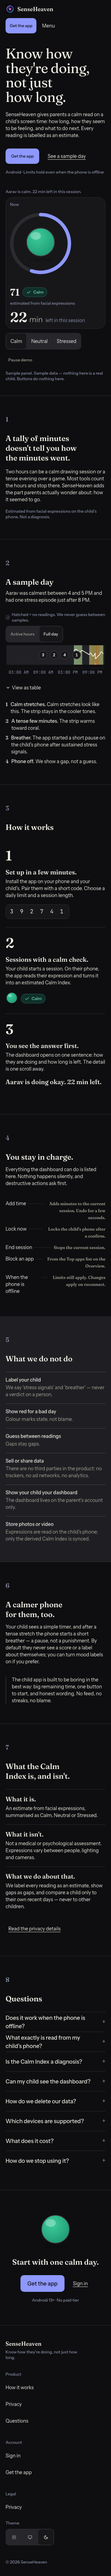
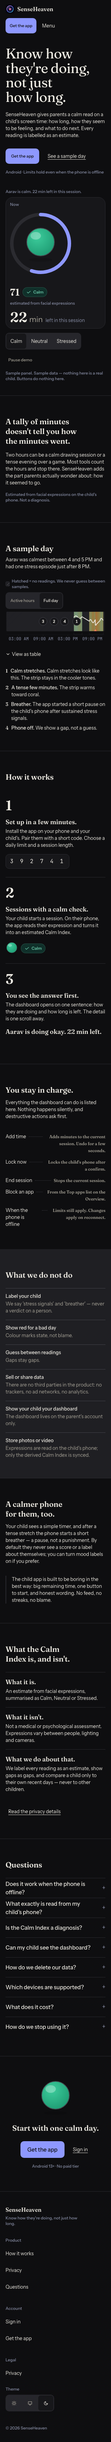
fix(verify): IPv6-safe localhost for vite preview under Node 26 (127.0.0.1 refused); sample-day simplification — margin column + leader skeleton removed, single numbered note list, section numerals dropped

diff --git a/web/src/features/home/HomePage.tsx b/web/src/features/home/HomePage.tsx
@@ -3,7 +3,7 @@
  *  shown is the real Overview components fed by sample data — no screenshots, no device
  *  frames, no invented facts. Every factual claim traces to code or the API (see
  *  verification/home/report.md). */
-import { lazy, Suspense, useEffect, useLayoutEffect, useRef, useState } from "react";
+import { lazy, Suspense, useEffect, useRef, useState } from "react";
 
 // the ribbon is below the fold: split + hydrate on visibility (spec §9.1)
 const DayRibbon = lazy(() => import("@/components/charts/DayRibbon").then((m) => ({ default: m.DayRibbon })));
@@ -45,14 +45,6 @@ function usePrefersReducedMotion(): boolean {
   return reduced;
 }
 
-function SectionLabel({ n }: { n: string }) {
-  return (
-    <p aria-hidden className="font-display text-h3 font-semibold text-text-subtle">
-      {n}
-    </p>
-  );
-}
-
 function SectionHeading({ id, children }: { id?: string; children: React.ReactNode }) {
   return (
     <h2 id={id} className="mt-1 font-display text-h2 font-semibold text-text" style={{ textWrap: "balance" }}>
@@ -62,12 +54,10 @@ function SectionHeading({ id, children }: { id?: string; children: React.ReactNo
 }
 
 function SectionFrame({
-  n,
   id,
   children,
   band = false,
 }: {
-  n: string;
   id?: string;
   children: React.ReactNode;
   band?: boolean;
@@ -75,28 +65,20 @@ function SectionFrame({
   return (
     <section id={id} className={cn("scroll-mt-20 border-t border-border", band && "bg-surface-2")}>
       <div className="mx-auto max-w-[1240px] px-4 py-[clamp(56px,9vw,128px)] md:px-8">
-        <div className="grid gap-6 md:grid-cols-[64px_minmax(0,1fr)]">
-          <SectionLabel n={n} />
-          <div className="min-w-0">{children}</div>
-        </div>
+        <div className="mx-auto max-w-[900px] min-w-0">{children}</div>
       </div>
     </section>
   );
 }
 
-/** The signature section: a sample past day with annotated marginalia (spec §4.4). */
+/** The signature section: a sample past day with numbered annotations on the ribbon. */
 function SampleDay() {
-  const sectionRef = useRef<HTMLElement>(null);
   const stripRef = useRef<HTMLDivElement>(null);
-  const marginRef = useRef<HTMLDivElement>(null);
-  const noteRefs = useRef<(HTMLDivElement | null)[]>([]);
-  const [leaders, setLeaders] = useState<{ d: string; dotX: number; dotY: number }[] | null>(null);
-  const [noteTops, setNoteTops] = useState<number[] | null>(null);
   const [revealed, setRevealed] = useState(false);
   const reduced = usePrefersReducedMotion();
 
   useEffect(() => {
-    const el = sectionRef.current;
+    const el = stripRef.current;
     if (!el || reduced) return;
     if (typeof IntersectionObserver === "undefined") return;
     const io = new IntersectionObserver((entries) => {
@@ -109,58 +91,11 @@ function SampleDay() {
     return () => io.disconnect();
   }, [reduced]);
 
-  // leaders are measured so they land on the right ribbon points at every width
-  useLayoutEffect(() => {
-    const measure = () => {
-      const section = sectionRef.current;
-      const strip = stripRef.current;
-      if (!section || !strip) return;
-      const sb = section.getBoundingClientRect();
-      const rb = strip.getBoundingClientRect();
-      const stripY = ((rb.top + rb.height / 2 - sb.top) / sb.height) * 100;
-      // stack the notes from just below the strip, spaced by their measured heights
-      const heights = noteRefs.current.slice(0, SAMPLE_NOTES.length).map(
-        (el) => (el?.getBoundingClientRect().height ?? 20) + 10,
-      );
-      const stripBottom = rb.bottom - sb.top + 8;
-      const tops: number[] = [];
-      let cursor = stripBottom;
-      for (const h of heights) {
-        tops.push(cursor);
-        cursor += h;
-      }
-      setNoteTops(tops);
-      const tops0 = tops; // leader endpoints track the same stacked positions
-      const lines = SAMPLE_NOTES.map((note, i) => {
-        const noteY = ((tops0[i]! + (heights[i]! - 10) / 2) / sb.height) * 100;
-        const noteX = ((sb.width - 300) / sb.width) * 100; // notes live in the 300px margin column
-        const ribbonX = ((8 + (note.at / (24 * 60)) * 884) / 900) * 100;
-        const elbow = Math.min(99, noteX + 1.5);
-        return {
-          d: `M ${noteX} ${noteY} L ${elbow} ${noteY} L ${elbow} ${stripY} L ${ribbonX} ${stripY}`,
-          dotX: ribbonX,
-          dotY: stripY,
-        };
-      });
-      setLeaders(lines);
-    };
-    measure();
-    if (typeof ResizeObserver === "undefined") return;
-    const ro = new ResizeObserver(measure);
-    if (sectionRef.current) ro.observe(sectionRef.current);
-    window.addEventListener("resize", measure);
-    return () => {
-      ro.disconnect();
-      window.removeEventListener("resize", measure);
-    };
-  }, []);
-
   return (
-    <section ref={sectionRef} id="sample-day" aria-labelledby="sample-day-heading" className="relative scroll-mt-20 border-t border-border">
+    <section id="sample-day" aria-labelledby="sample-day-heading" className="scroll-mt-20 border-t border-border">
       <div className="mx-auto max-w-[1240px] px-4 py-[clamp(56px,9vw,128px)] md:px-8">
-        <div className="grid gap-6 md:grid-cols-[64px_minmax(0,1fr)] lg:grid-cols-[64px_minmax(0,1fr)_300px]">
-          <SectionLabel n="2" />
-          <div className="min-w-0 lg:col-start-2 lg:row-start-1">
+        <div className="mx-auto max-w-[900px]">
+          <div className="min-w-0">
             <SectionHeading id="sample-day-heading">A sample day</SectionHeading>
             <p className="mt-2 max-w-[56ch] text-secondary">{SAMPLE_DAY.insight}</p>
 
@@ -197,45 +132,7 @@ function SampleDay() {
               ))}
             </ol>
           </div>
-
-          {/* marginalia column ≥ lg */}
-          <div className="relative hidden lg:col-start-3 lg:row-start-1 lg:block" aria-hidden ref={marginRef}>
-            {SAMPLE_NOTES.map((note, i) => (
-              <div
-                key={note.at}
-                ref={(el) => {
-                  noteRefs.current[i] = el;
-                }}
-                className="absolute left-0 w-[280px]"
-                style={{ top: `${(noteTops ?? [8, 38, 68, 98])[i] ?? 8 + i * 30}px` }}
-              >
-                <p className="text-[0.875rem]/5 text-text-muted">
-                  <span className="font-display font-semibold text-text">{i + 1}</span> {note.note}
-                </p>
-              </div>
-            ))}
-          </div>
         </div>
-
-        {/* hairline leaders from the margin notes to their points on the ribbon */}
-        <svg
-          className="pointer-events-none absolute inset-0 hidden h-full w-full lg:block"
-          viewBox="0 0 100 100"
-          preserveAspectRatio="none"
-          aria-hidden
-        >
-          {leaders?.map((l, i) => (
-            <path key={i} d={l.d} fill="none" stroke="var(--rule-strong)" strokeWidth="1" vectorEffect="non-scaling-stroke" />
-          ))}
-        </svg>
-        {leaders?.map((l, i) => (
-          <span
-            key={`dot-${i}`}
-            aria-hidden
-            className="absolute hidden h-1 w-1 -translate-x-1/2 -translate-y-1/2 rounded-pill bg-[var(--rule-strong)] lg:block"
-            style={{ left: `${l.dotX}%`, top: `${l.dotY}%` }}
-          />
-        ))}
       </div>
     </section>
   );
@@ -353,7 +250,7 @@ export function HomePage() {
         </section>
 
         {/* ── 1 · The tally ────────────────────────────────────────────────── */}
-        <SectionFrame n="1">
+        <SectionFrame>
           <SectionHeading>A tally of minutes doesn't tell you how the minutes went.</SectionHeading>
           <p className="mt-4 max-w-[60ch] text-body/6 text-secondary">
             Two hours can be a calm drawing session or a tense evening over a game. Most tools
@@ -369,7 +266,7 @@ export function HomePage() {
         <SampleDay />
 
         {/* ── 3 · How it works ─────────────────────────────────────────────── */}
-        <SectionFrame n="3" id="how-it-works">
+        <SectionFrame id="how-it-works">
           <SectionHeading>How it works</SectionHeading>
           <ol className="mt-6">
             {[
@@ -417,7 +314,7 @@ export function HomePage() {
         </SectionFrame>
 
         {/* ── 4 · Controls you keep ────────────────────────────────────────── */}
-        <SectionFrame n="4">
+        <SectionFrame>
           <div className="grid gap-8 lg:grid-cols-[minmax(0,1fr)_minmax(0,1.2fr)]">
             <div className="min-w-0">
               <SectionHeading>You stay in charge.</SectionHeading>
@@ -443,25 +340,22 @@ export function HomePage() {
         {/* ── 5 · What we do not do (the one band) ─────────────────────────── */}
         <section className="scroll-mt-20 bg-surface-2">
           <div className="mx-auto max-w-[1240px] px-4 py-[clamp(56px,9vw,128px)] md:px-8">
-            <div className="grid gap-6 md:grid-cols-[64px_minmax(0,1fr)]">
-              <SectionLabel n="5" />
-              <div className="min-w-0">
-                <SectionHeading>What we do not do</SectionHeading>
-                <dl className="mt-6 grid gap-x-10 gap-y-4 md:grid-cols-2">
-                  {NOT_DO.map((row) => (
-                    <div key={row.we} className="border-t border-[var(--rule-strong)] pt-3">
-                      <dt className="text-secondary font-medium">{row.we}</dt>
-                      <dd className="mt-0.5 text-secondary text-text-muted">{row.because}</dd>
-                    </div>
-                  ))}
-                </dl>
-              </div>
+            <div className="mx-auto max-w-[900px] min-w-0">
+              <SectionHeading>What we do not do</SectionHeading>
+              <dl className="mt-6 grid gap-x-10 gap-y-4 md:grid-cols-2">
+                {NOT_DO.map((row) => (
+                  <div key={row.we} className="border-t border-[var(--rule-strong)] pt-3">
+                    <dt className="text-secondary font-medium">{row.we}</dt>
+                    <dd className="mt-0.5 text-secondary text-text-muted">{row.because}</dd>
+                  </div>
+                ))}
+              </dl>
             </div>
           </div>
         </section>
 
         {/* ── 6 · What the child sees ──────────────────────────────────────── */}
-        <SectionFrame n="6">
+        <SectionFrame>
           <div className="grid gap-8 md:grid-cols-2">
             <div className="min-w-0">
               <SectionHeading>A calmer phone for them, too.</SectionHeading>
@@ -481,7 +375,7 @@ export function HomePage() {
         </SectionFrame>
 
         {/* ── 7 · Honest about estimates ───────────────────────────────────── */}
-        <SectionFrame n="7" id="privacy">
+        <SectionFrame id="privacy">
           <SectionHeading>What the Calm Index is, and isn't.</SectionHeading>
           <div className="mt-6 max-w-[70ch]">
             <div className="border-t border-border py-4">
@@ -513,7 +407,7 @@ export function HomePage() {
         </SectionFrame>
 
         {/* ── 8 · Questions ────────────────────────────────────────────────── */}
-        <SectionFrame n="8" id="questions">
+        <SectionFrame id="questions">
           <SectionHeading>Questions</SectionHeading>
           <div className="mt-6 max-w-[70ch]">
             {FAQ.map((item) => (

diff --git a/web/playwright.verify.config.ts b/web/playwright.verify.config.ts
@@ -16,12 +16,12 @@ export default defineConfig({
   retries: 0,
   reporter: [["list"]],
   use: {
-    baseURL: "http://127.0.0.1:4173",
+    baseURL: "http://localhost:4173",
     trace: "retain-on-failure",
   },
   webServer: {
     command: "npx vite preview --port 4173 --strictPort",
-    port: 4173,
+    port: 4173, // vite preview binds ::1 — tests resolve via localhost
     reuseExistingServer: !process.env.CI,
     timeout: 30_000,
   },

diff --git a/web/verification/zz-lighthouse.spec.ts b/web/verification/zz-lighthouse.spec.ts
@@ -12,7 +12,7 @@ import { promisify } from "node:util";
 import { chromium, expect, test } from "@playwright/test";
 
 const pExecFile = promisify(execFile);
-const BASE = process.env.E2E_BASE_URL ?? "http://127.0.0.1:4173";
+const BASE = process.env.E2E_BASE_URL ?? "http://localhost:4173";
 
 async function audit(fixture: string): Promise<Record<string, number>> {
   const chrome = chromium.executablePath();
